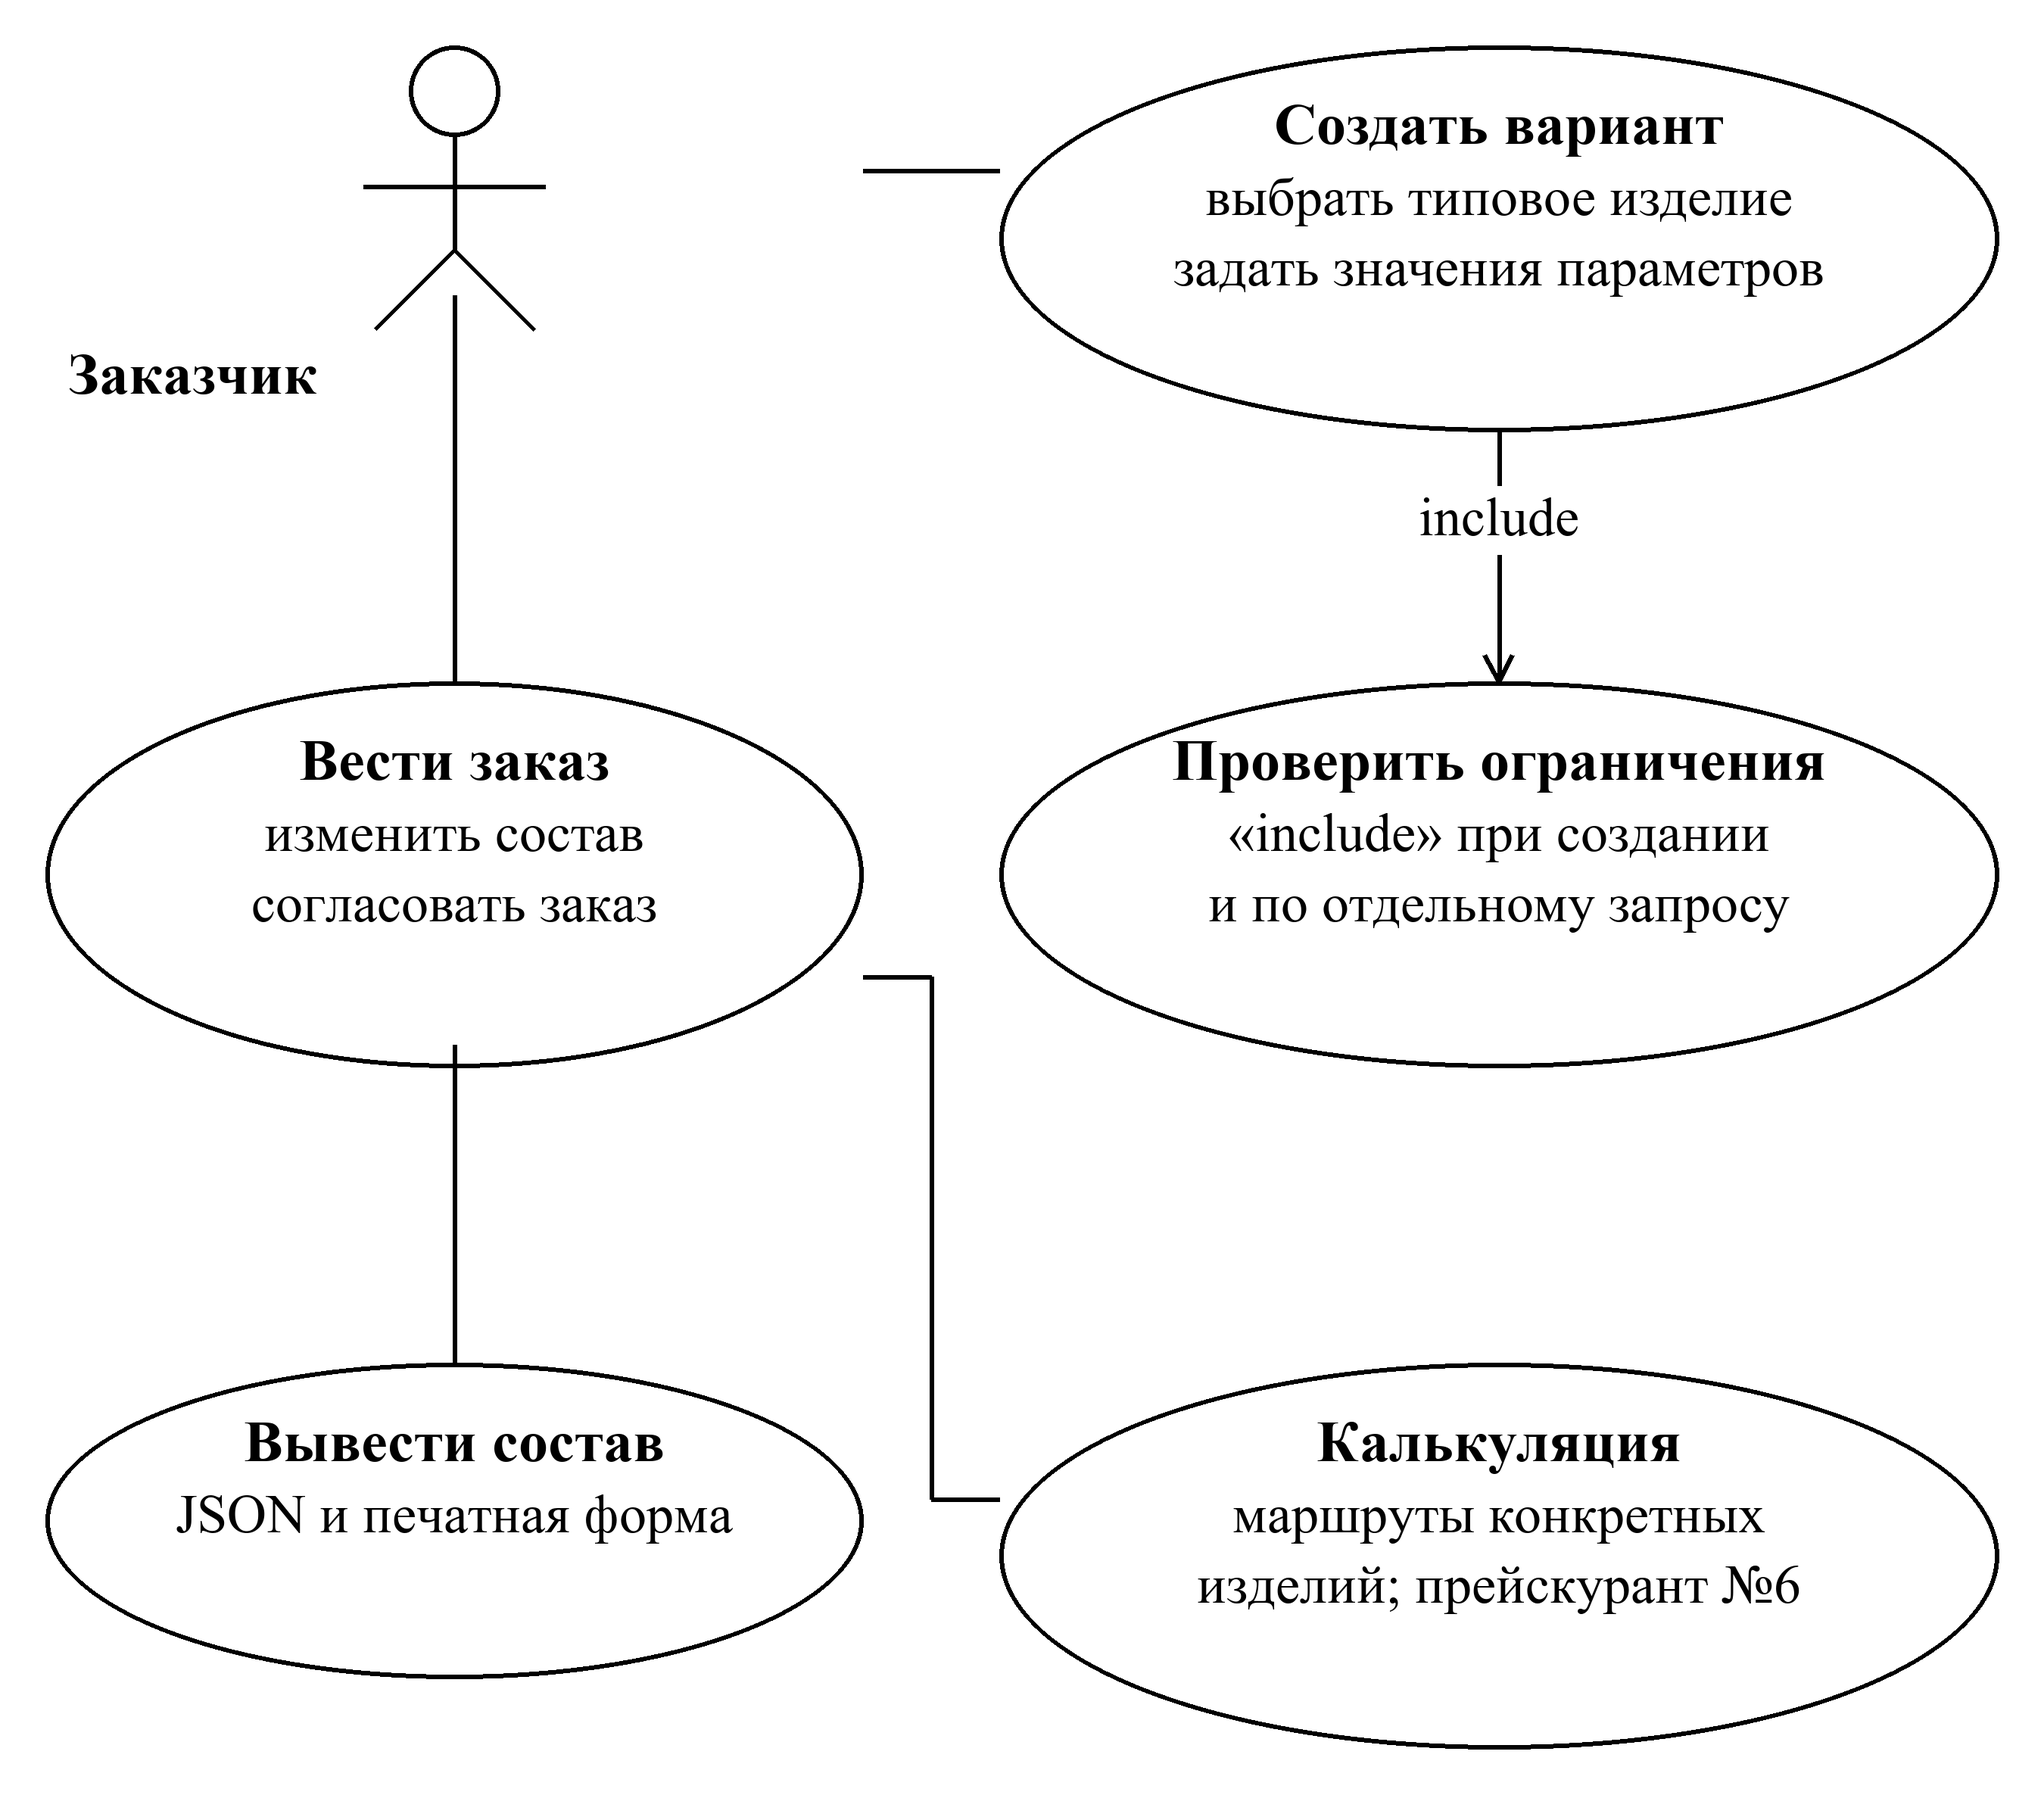
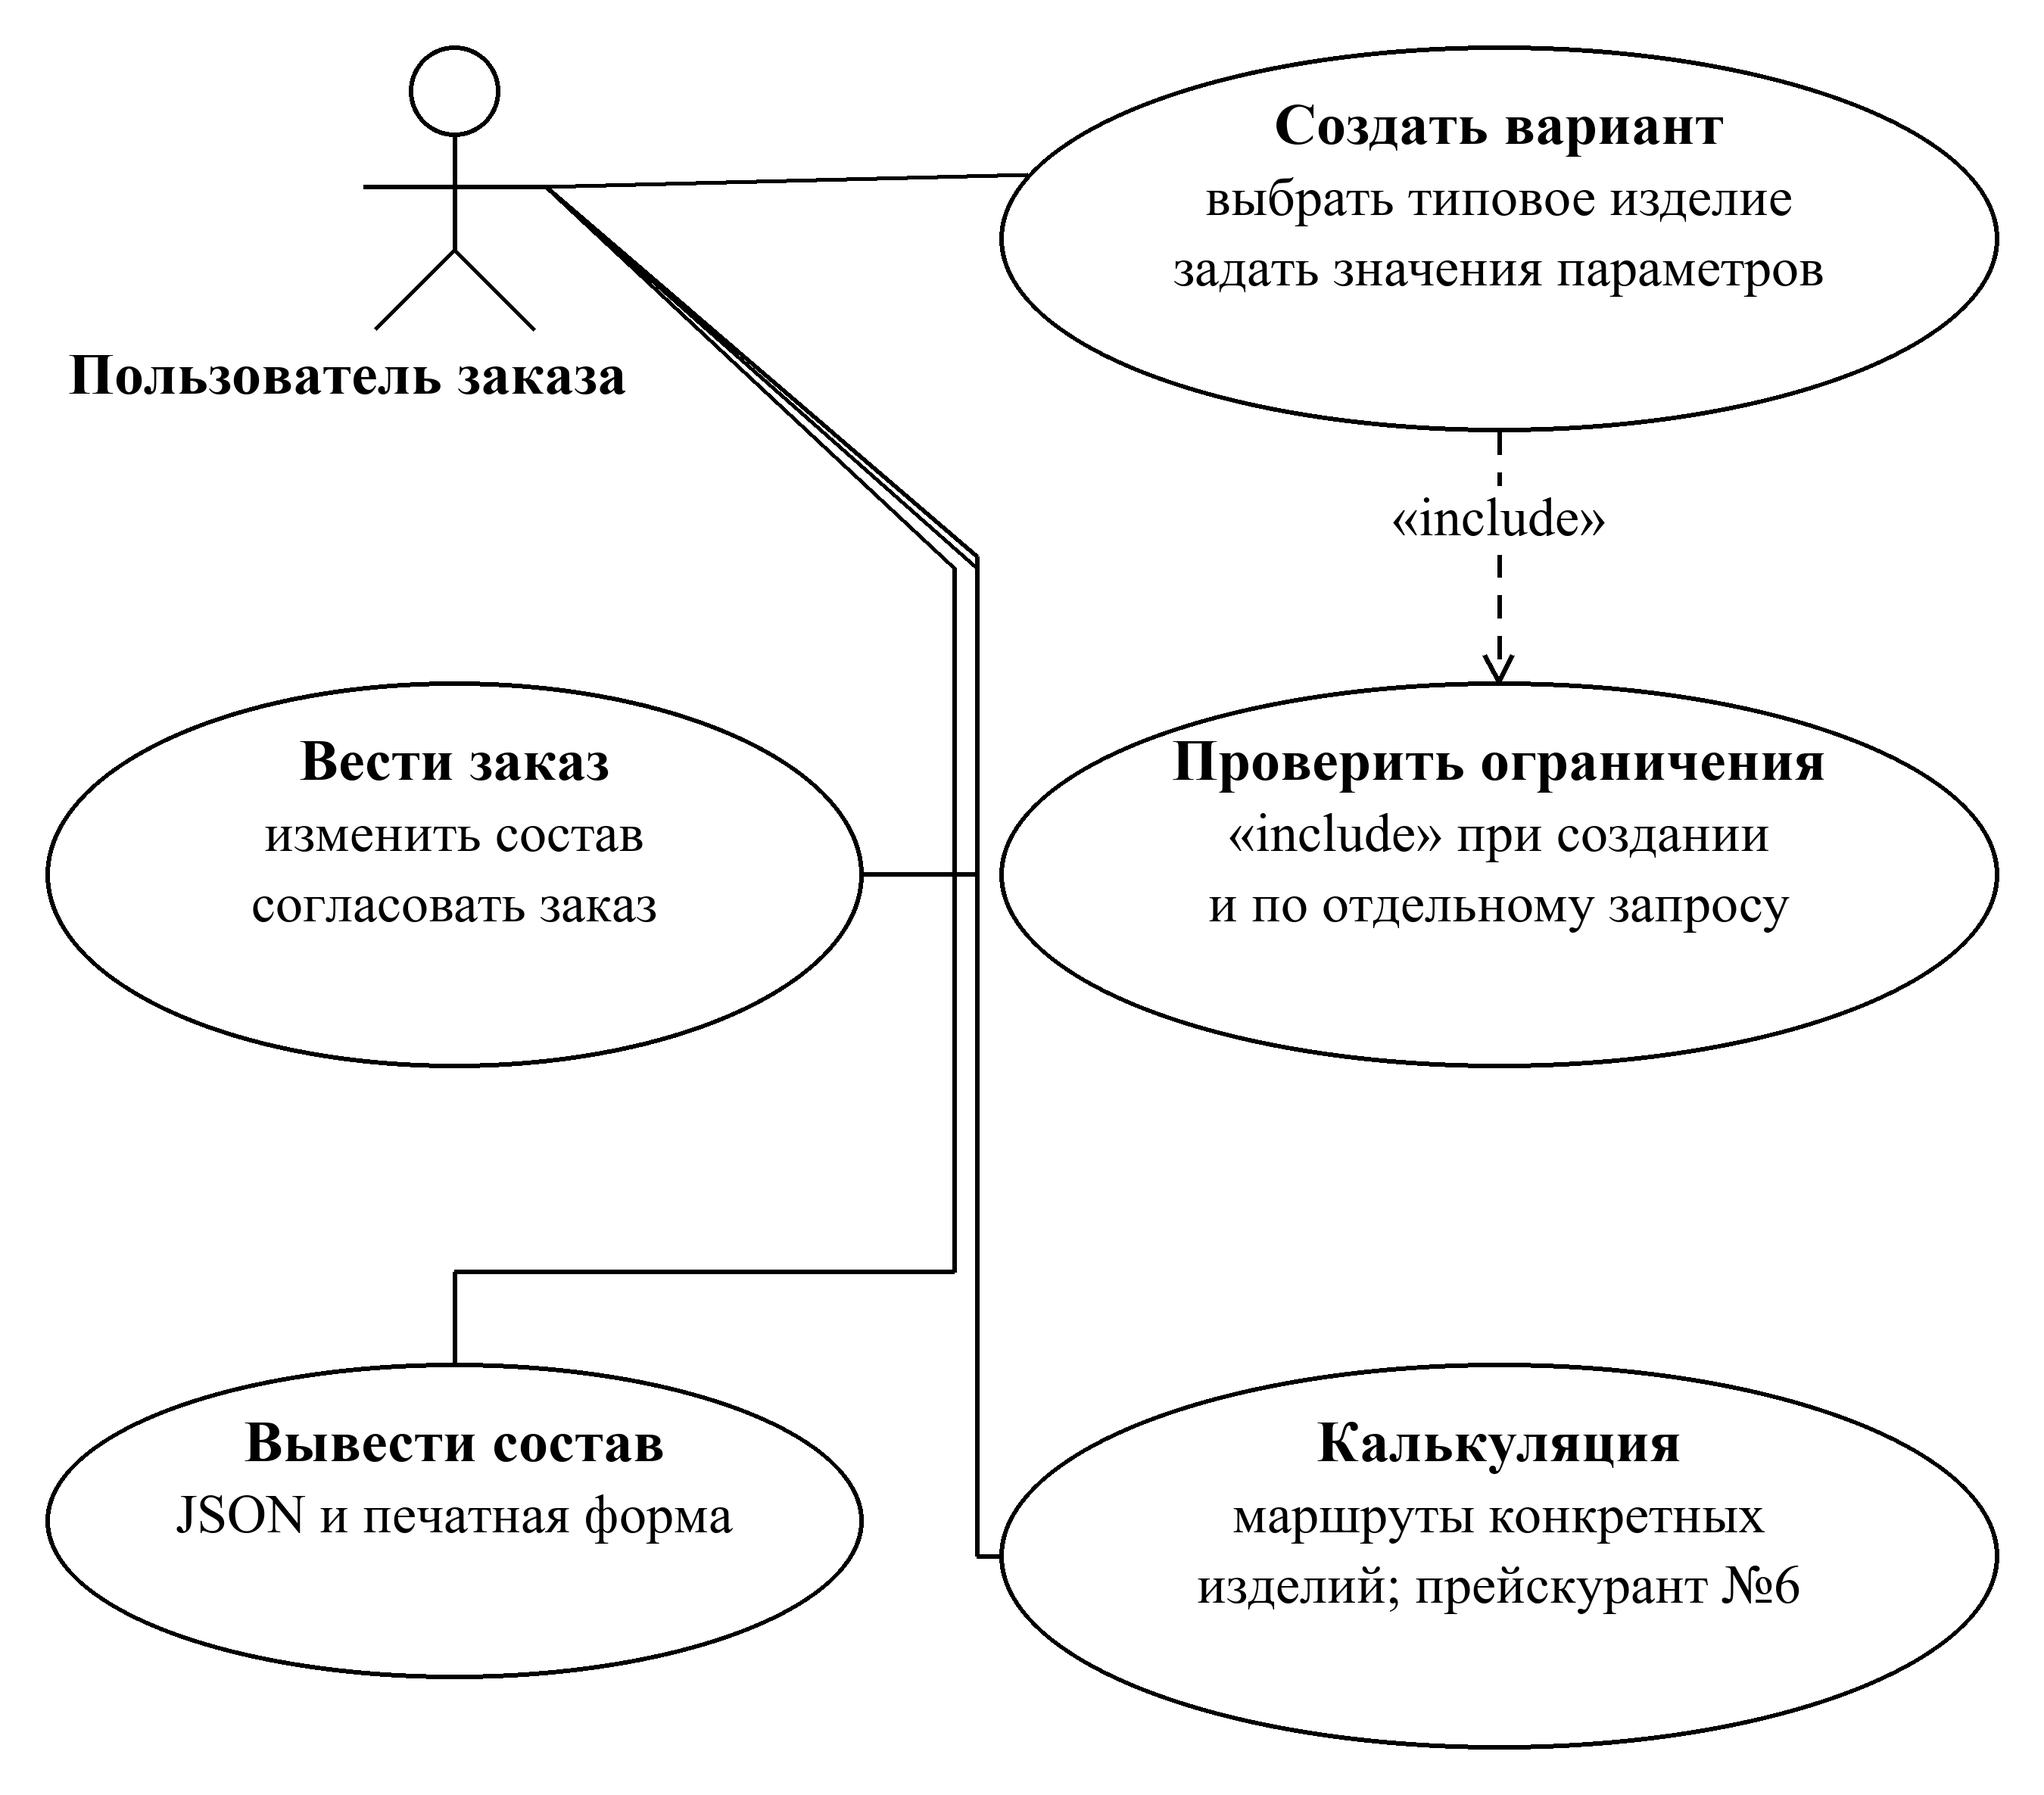
docs: исправлены связи и обозначения диаграмм №7

diff --git a/utils/lab7/ПРОВЕРКА_ОТЧЕТА.md b/utils/lab7/ПРОВЕРКА_ОТЧЕТА.md
@@ -1,0 +1,33 @@
+# Проверка отчёта №7
+
+Проверены итоговые DOCX/PDF, восемь диаграмм, подписи, исходники drawio, модель хранения и материалы задания №7. Проверка относится к отчёту №7; старые отчёты №1–6 в этой итерации не редактировались.
+
+## Исправленные замечания
+
+1. Связь «include» приведена к пунктирной зависимости с открытой стрелкой от создания варианта к проверке ограничений. Исправлены и PNG, и drawio.
+2. Ассоциации акторов доведены до границ фигур; убраны связи между самостоятельными прецедентами, которые могли быть ошибочно прочитаны как include. Вывод и калькуляция связаны с пользователем заказа.
+3. В модели классов отделён класс изделия от самого изделия: назначение параметра относится к классу, а не непосредственно к экземпляру. Добавлена связь назначения с параметром и зависимости сервиса.
+4. Кратности записаны у соответствующих концов связей. Уточнены обязательные и необязательные ссылки по ORM и миграции: класс изделия допускает отсутствие; item_configuration.item_id обязателен; template_id обязателен для варианта и отсутствует у шаблона.
+5. В ERD отдельно показаны две разные связи item_configuration с item: собственный item_id и template_id. Они не смешиваются с base_item_id модификаций №5.
+6. Зависимости интерпретатора направлены к используемым определениям/выражениям и изображены пунктиром. Логическая ссылка вызова по коду функции отличается от физического FK.
+
+## Проверка оформления
+
+- PDF содержит 25 страниц; пустых страниц и отдельных страниц с обрывком абзаца нет.
+- Формат A4, поля 30/15/20/20 мм; основное начертание Times New Roman, основной текст 14 пт, интервал 1,5. На титульном листе номер не выводится.
+- Содержание помещается на одной странице; номера страниц обновлены через Word после пересборки. Разделы, введение, заключение, источники и приложение начинаются с новой страницы.
+- Двенадцать рисунков имеют последовательные номера, подписи и предварительные ссылки; подписи не отделены от изображений. После изображений есть поясняющий текст.
+- Восемь схем сохранены отдельными функциональными фрагментами: настройка, работа с заказом, классы, интерпретатор и четыре части хранения. Масштаб текста схем на листе приблизительно 12,5 пт, PNG — с тройным разрешением.
+- Просмотрены отрисованные страницы итогового PDF; проверены границы фигур, читаемость атрибутов, направления зависимостей, кратности и подписи. Размер шрифта и отсутствие обрезания проверены отдельно от правильности связей.
+- Таблицы укладываются по ширине; листинги настоящих Python-методов не выходят за рамки. Длинные строки в листингах могут переноситься средствами Word; это визуальный перенос, не изменение программы.
+- Ссылки на источники присутствуют; приложение А упомянуто в основном тексте. Полный код поставляется архивом, а не огромным приложением к отчёту.
+
+## Существенное отличие от примера преподавателя
+
+Слайд 18 углублённого задания предлагает отдельные таблицы функций, формальных аргументов, констант, вызовов и фактических аргументов. В реализации используются JSONB-деревья. Отчёт прямо описывает это отличие и проверки структуры/типов. Поэтому утверждение о буквальном совпадении с ERD преподавателя было бы неверным. Это проектное решение нужно уметь объяснить на защите; визуальная вычитка не означает, что преподаватель заранее согласовал такое отступление.
+
+Схемы являются фрагментами принятой реализации: внешние справочники, не развёрнутые в данном фрагменте, обозначены FK-полями. Они не подменяют полную физическую SQL-схему, поставляемую отдельно.
+
+## Результат
+
+Найденные визуальные и перечисленные семантические ошибки исправлены. Итоговые DOCX/PDF, PNG/drawio и архив поставки обновлены. Абсолютная гарантия оценки преподавателя не заявляется; конкретное архитектурное отличие от слайда 18 оставлено явным, а не скрыто оформлением.
